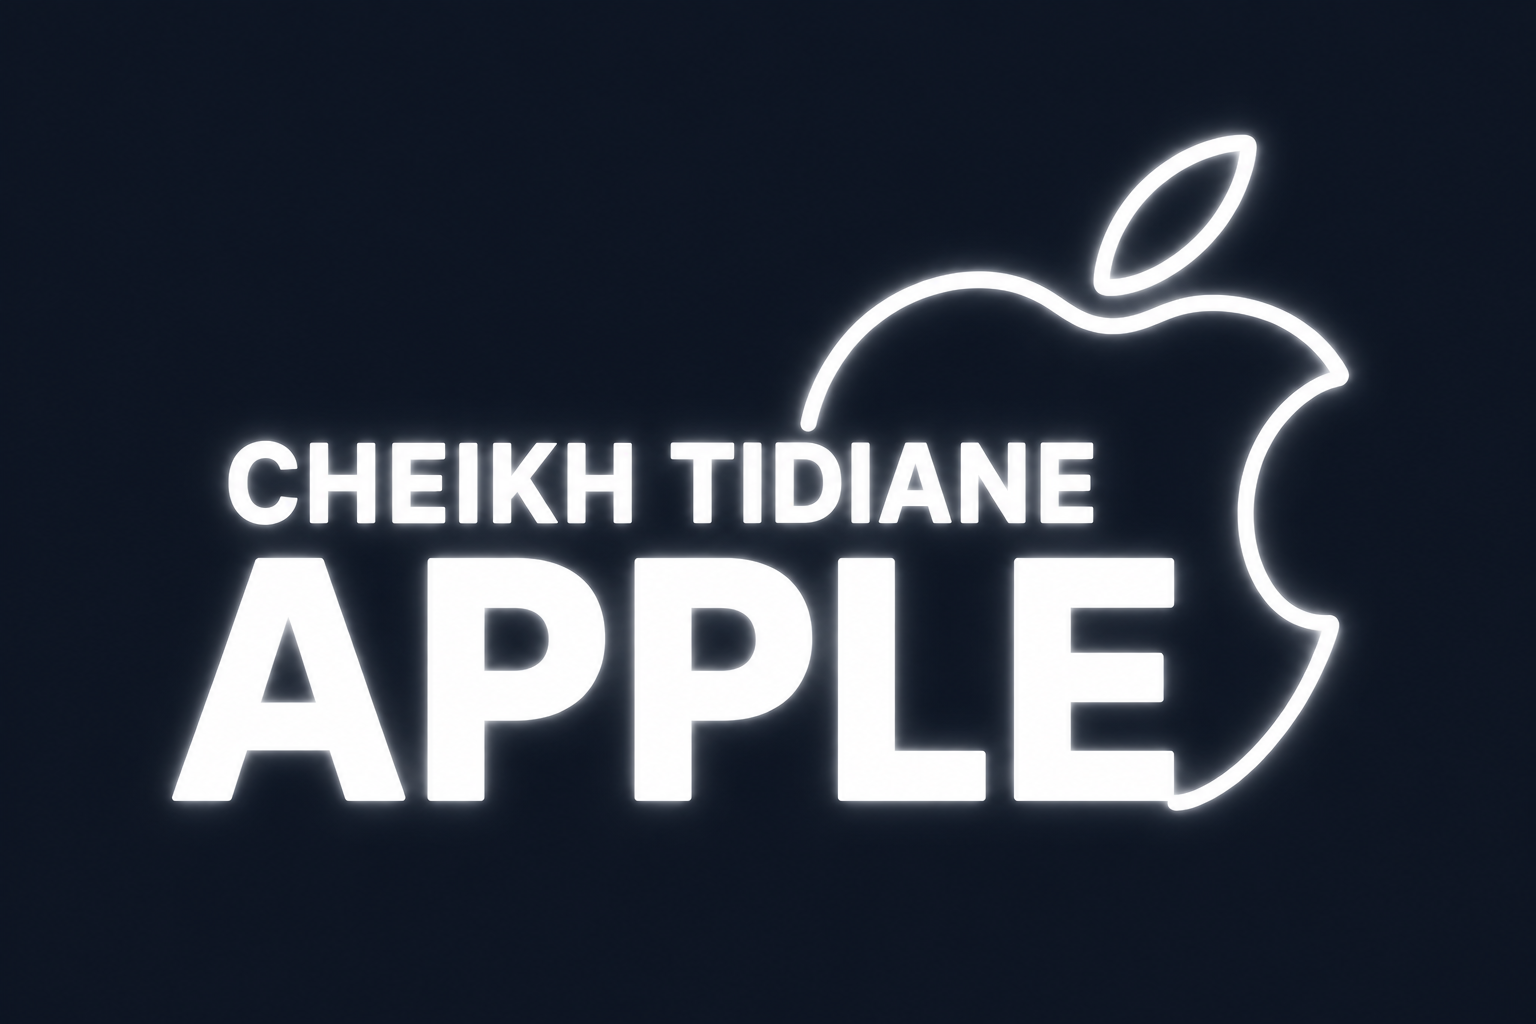
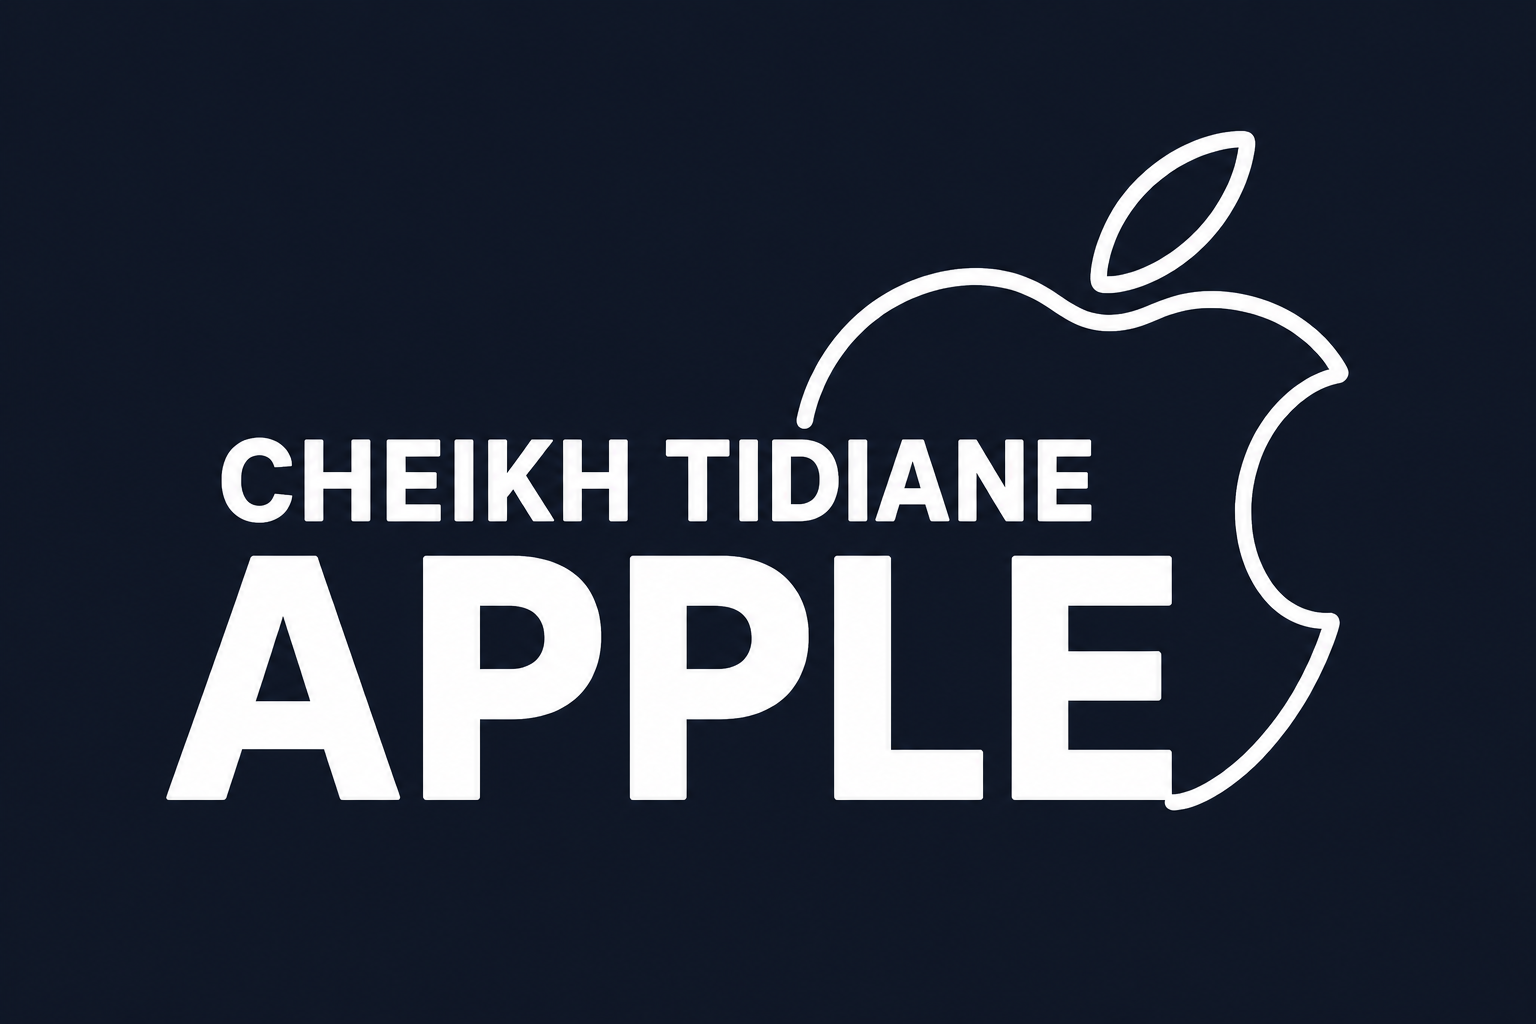
mis a jour

Changed region(s): [[0.125, 0.125, 0.9062, 0.8125], [0.0938, 0.7188, 0.2188, 0.8125], [0.3125, 0.6875, 0.375, 0.7812]]

diff --git a/src/pages/Admin/NewOrderModal.jsx b/src/pages/Admin/NewOrderModal.jsx
@@ -1,19 +1,25 @@
 import { useState, useMemo } from 'react';
 import { useQuery } from '@tanstack/react-query';
-import { FiSearch, FiPlus, FiMinus, FiTrash2, FiShoppingBag } from 'react-icons/fi';
+import { FiSearch, FiPlus, FiMinus, FiTrash2, FiShoppingBag, FiUser, FiCheckCircle, FiX } from 'react-icons/fi';
 import Modal from '@/components/ui/Modal';
 import { productService } from '@/services/product.service';
 import { adminService } from '@/services/admin.service';
 import { formatPrice } from '@/utils/format';
 import { POS_PAYMENT_METHODS } from '@/constants';
 
+const WALKIN_EMAIL = 'comptoir@cheikhtidiane.local';
 const norm = (s) => (s || '').toLowerCase().normalize('NFD').replace(/[̀-ͯ]/g, '');
+
+const EMPTY_CUSTOMER = { name: '', phone: '', address: '', city: '' };
 
 /** Création d'une commande « sur place » (vente au comptoir). */
 export default function NewOrderModal({ open, onClose, onCreated }) {
   const [q, setQ] = useState('');
   const [lines, setLines] = useState({}); // { productId: { product, qty } }
-  const [customer, setCustomer] = useState({ name: '', phone: '' });
+  const [customer, setCustomer] = useState(EMPTY_CUSTOMER);
+  const [clientQ, setClientQ] = useState('');
+  const [selectedClientId, setSelectedClientId] = useState(null);
+  const [showClientList, setShowClientList] = useState(false);
   const [method, setMethod] = useState('cash');
   const [busy, setBusy] = useState(false);
   const [error, setError] = useState('');
@@ -21,10 +27,22 @@ export default function NewOrderModal({ open, onClose, onCreated }) {
   const { data } = useQuery({ queryKey: ['pos-products'], queryFn: () => productService.list({ limit: 100 }), enabled: open });
   const products = data?.data || [];
 
+  // Clients existants (pour rattachement d'une vente au comptoir)
+  const { data: clientsData } = useQuery({ queryKey: ['admin', 'clients'], queryFn: () => adminService.clients(), enabled: open });
+  const clients = clientsData?.data || [];
+
   const results = useMemo(() => {
     const t = norm(q.trim());
     return (t ? products.filter((p) => norm(p.name).includes(t)) : products).slice(0, 8);
   }, [products, q]);
+
+  const clientResults = useMemo(() => {
+    const t = norm(clientQ.trim());
+    return clients
+      .filter((c) => c.email !== WALKIN_EMAIL)
+      .filter((c) => !t || norm(`${c.name} ${c.phone || ''} ${c.email || ''}`).includes(t))
+      .slice(0, 6);
+  }, [clients, clientQ]);
 
   const items = Object.values(lines);
   const total = items.reduce((s, it) => s + it.product.price * it.qty, 0);
@@ -36,18 +54,42 @@ export default function NewOrderModal({ open, onClose, onCreated }) {
       return { ...l, [id]: { ...l[id], qty } };
     });
 
+  function pickClient(c) {
+    setSelectedClientId(c.id);
+    setCustomer({ name: c.name || '', phone: c.phone || '', address: c.address || '', city: c.city || '' });
+    setClientQ('');
+    setShowClientList(false);
+    setError('');
+  }
+  function clearClient() {
+    setSelectedClientId(null);
+    setCustomer(EMPTY_CUSTOMER);
+  }
+
+  function reset() {
+    setLines({}); setCustomer(EMPTY_CUSTOMER); setQ(''); setMethod('cash');
+    setClientQ(''); setSelectedClientId(null); setShowClientList(false);
+  }
+
   async function submit() {
+    if (!customer.name.trim()) return setError('Le nom du client est obligatoire.');
     if (!items.length) return setError('Ajoutez au moins un article.');
     setBusy(true);
     setError('');
     try {
       await adminService.createOrder({
-        customer: { name: customer.name.trim(), phone: customer.phone.trim() },
+        userId: selectedClientId || undefined,
+        customer: {
+          name: customer.name.trim(),
+          phone: customer.phone.trim(),
+          address: customer.address.trim(),
+          city: customer.city.trim(),
+        },
         items: items.map((it) => ({ productId: it.product.id, quantity: it.qty })),
         paymentMethod: method,
         status: 'paid',
       });
-      setLines({}); setCustomer({ name: '', phone: '' }); setQ(''); setMethod('cash');
+      reset();
       onCreated?.();
     } catch (e) {
       setError(e.response?.data?.message || 'Création impossible.');
@@ -91,7 +133,7 @@ export default function NewOrderModal({ open, onClose, onCreated }) {
                       <span className="w-6 text-center dark:text-white">{it.qty}</span>
                       <button type="button" onClick={() => setQty(it.product.id, it.qty + 1)} className="grid h-7 w-7 place-items-center text-muted"><FiPlus size={12} /></button>
                     </div>
-                    <span className="w-20 shrink-0 text-right font-semibold dark:text-white">{formatPrice(it.product.price * it.qty)}</span>
+                    <span className="w-20 shrink-0 whitespace-nowrap text-right font-semibold dark:text-white">{formatPrice(it.product.price * it.qty)}</span>
                     <button type="button" onClick={() => setQty(it.product.id, 0)} className="grid h-7 w-7 shrink-0 place-items-center rounded text-muted hover:text-danger"><FiTrash2 size={13} /></button>
                   </div>
                 ))}
@@ -101,9 +143,55 @@ export default function NewOrderModal({ open, onClose, onCreated }) {
             )}
           </div>
 
-          <div className="grid grid-cols-2 gap-3">
-            <input className="input" placeholder="Nom du client (optionnel)" value={customer.name} onChange={(e) => setCustomer((c) => ({ ...c, name: e.target.value }))} />
-            <input className="input" placeholder="Téléphone (optionnel)" value={customer.phone} onChange={(e) => setCustomer((c) => ({ ...c, phone: e.target.value }))} />
+          {/* Client */}
+          <div>
+            <label className="label dark:text-white/80">Client</label>
+
+            {/* Recherche d'un client existant */}
+            <div className="relative">
+              <FiUser className="pointer-events-none absolute left-3 top-1/2 -translate-y-1/2 text-muted" size={16} />
+              <input
+                className="input pl-9"
+                placeholder="Rechercher un client existant…"
+                value={clientQ}
+                onChange={(e) => { setClientQ(e.target.value); setShowClientList(true); }}
+                onFocus={() => setShowClientList(true)}
+                onBlur={() => setTimeout(() => setShowClientList(false), 150)}
+              />
+              {showClientList && clientResults.length > 0 && (
+                <div className="absolute z-20 mt-1 max-h-52 w-full overflow-y-auto rounded-xl border border-line bg-white py-1 shadow-card dark:border-white/10 dark:bg-primary-800">
+                  {clientResults.map((c) => (
+                    <button
+                      key={c.id}
+                      type="button"
+                      onMouseDown={(e) => e.preventDefault()}
+                      onClick={() => pickClient(c)}
+                      className="flex w-full items-center justify-between gap-2 px-3 py-2 text-left text-sm transition hover:bg-surface dark:hover:bg-white/5"
+                    >
+                      <span className="min-w-0 truncate font-medium dark:text-white">{c.name}</span>
+                      <span className="shrink-0 whitespace-nowrap text-xs text-muted">{c.phone || c.email}</span>
+                    </button>
+                  ))}
+                </div>
+              )}
+            </div>
+
+            {selectedClientId && (
+              <span className="mt-2 inline-flex items-center gap-1.5 rounded-full bg-success/10 px-3 py-1 text-xs font-semibold text-success">
+                <FiCheckCircle size={13} /> Client existant lié
+                <button type="button" onClick={clearClient} className="ml-0.5 text-success/80 hover:text-success" aria-label="Détacher le client"><FiX size={13} /></button>
+              </span>
+            )}
+
+            {/* Coordonnées (le nom est obligatoire) */}
+            <div className="mt-2 grid grid-cols-2 gap-3">
+              <input className="input" placeholder="Nom du client *" value={customer.name} onChange={(e) => setCustomer((c) => ({ ...c, name: e.target.value }))} />
+              <input className="input" placeholder="Téléphone" value={customer.phone} onChange={(e) => setCustomer((c) => ({ ...c, phone: e.target.value }))} />
+            </div>
+            <input className="input mt-3" placeholder="Adresse (optionnel)" value={customer.address} onChange={(e) => setCustomer((c) => ({ ...c, address: e.target.value }))} />
+            <p className="mt-1.5 text-xs text-muted">
+              Si le téléphone ou l'adresse correspond à un client du site, la commande lui sera automatiquement rattachée.
+            </p>
           </div>
 
           <div>
@@ -115,7 +203,7 @@ export default function NewOrderModal({ open, onClose, onCreated }) {
 
           <div className="flex items-center justify-between border-t border-line pt-3 dark:border-white/10">
             <span className="text-sm text-muted">Total</span>
-            <span className="text-xl font-extrabold dark:text-white">{formatPrice(total)}</span>
+            <span className="whitespace-nowrap text-xl font-extrabold dark:text-white">{formatPrice(total)}</span>
           </div>
 
           {error && <p className="rounded-lg bg-danger/10 px-3 py-2 text-sm text-danger">{error}</p>}

diff --git a/src/utils/media.js b/src/utils/media.js
@@ -1,5 +1,34 @@
 import { IPHONE_IMAGES } from '@/constants';
 
+/**
+ * Optimise une URL Cloudinary À LA VOLÉE (sans re-téléverser l'image) :
+ * insère format & qualité automatiques (WebP/AVIF, compression), densité
+ * d'écran (Retina) et une largeur cible. Cloudinary génère la dérivée à la
+ * 1re requête puis la sert depuis son CDN (mise en cache).
+ * Les URL non-Cloudinary (placeholders locaux `/images/…`) sont renvoyées telles quelles.
+ * @param {string} url
+ * @param {{width?:number, height?:number, crop?:string}} opts
+ */
+export function optimizeImage(url, { width, height, crop = 'limit' } = {}) {
+  if (!url || typeof url !== 'string') return url;
+  if (!url.includes('res.cloudinary.com') || !url.includes('/upload/')) return url;
+  // Évite d'empiler nos transformations si l'URL en contient déjà une des nôtres.
+  if (/\/upload\/[^/]*f_auto/.test(url)) return url;
+  const t = ['f_auto', 'q_auto', 'dpr_auto', `c_${crop}`];
+  if (width) t.push(`w_${width}`);
+  if (height) t.push(`h_${height}`);
+  return url.replace('/upload/', `/upload/${t.join(',')}/`);
+}
+
+/**
+ * Construit un `srcSet` responsive pour une image Cloudinary (plusieurs largeurs).
+ * Renvoie `undefined` pour les URL non-Cloudinary (le navigateur utilise alors `src`).
+ */
+export function optimizedSrcSet(url, widths = [300, 400, 600, 800]) {
+  if (!url || typeof url !== 'string' || !url.includes('res.cloudinary.com')) return undefined;
+  return widths.map((w) => `${optimizeImage(url, { width: w })} ${w}w`).join(', ');
+}
+
 /** Vrai si le produit est un iPhone (par catégorie ou par nom/modèle). */
 function isIphone(product) {
   const slug = product?.category?.slug;

diff --git a/src/pages/ProductDetails/index.jsx b/src/pages/ProductDetails/index.jsx
@@ -15,7 +15,7 @@ import { productService } from '@/services/product.service';
 import { addItem } from '@/store/cartSlice';
 import { toggleFavorite } from '@/store/favoriteSlice';
 import { formatPrice, computeLebalma, cn } from '@/utils/format';
-import { productGallery } from '@/utils/media';
+import { productGallery, optimizeImage } from '@/utils/media';
 import { WHATSAPP_NUMBER } from '@/constants';
 
 const TRUST = [
@@ -119,8 +119,9 @@ export default function ProductDetails() {
             {images.length > 0 ? (
               <div className="aspect-square overflow-hidden rounded-3xl bg-surface shadow-card ring-1 ring-line/60 dark:bg-primary-800 dark:ring-white/10">
                 <img
-                  src={images[activeImg] || images[0]}
+                  src={optimizeImage(images[activeImg] || images[0], { width: 900 })}
                   alt={product.name}
+                  decoding="async"
                   className="h-full w-full object-cover transition-transform duration-700 ease-smooth group-hover:scale-105"
                 />
               </div>
@@ -179,7 +180,7 @@ export default function ProductDetails() {
                   )}
                   aria-label={`Photo ${i + 1}`}
                 >
-                  <img src={img} alt={`${product.name} ${i + 1}`} className="h-full w-full object-cover" />
+                  <img src={optimizeImage(img, { width: 160 })} alt={`${product.name} ${i + 1}`} loading="lazy" className="h-full w-full object-cover" />
                 </button>
               ))}
             </div>

diff --git a/src/pages/Cart/index.jsx b/src/pages/Cart/index.jsx
@@ -3,6 +3,7 @@ import { useSelector, useDispatch } from 'react-redux';
 import { FiTrash2 } from 'react-icons/fi';
 import { updateQuantity, removeItem, selectCartTotal } from '@/store/cartSlice';
 import { formatPrice } from '@/utils/format';
+import { optimizeImage } from '@/utils/media';
 
 export default function Cart() {
   const dispatch = useDispatch();
@@ -28,7 +29,7 @@ export default function Cart() {
             <div key={`${it.product.id}-${it.color}-${it.storage}`} className="card flex items-center gap-4 p-4">
               <div className="h-20 w-20 overflow-hidden rounded-lg bg-surface">
                 {it.product.images?.[0] && (
-                  <img src={it.product.images[0]} alt={it.product.name} className="h-full w-full object-cover" />
+                  <img src={optimizeImage(it.product.images[0], { width: 160 })} alt={it.product.name} loading="lazy" className="h-full w-full object-cover" />
                 )}
               </div>
               <div className="flex-1">

diff --git a/src/services/api.js b/src/services/api.js
@@ -18,15 +18,17 @@ api.interceptors.request.use((config) => {
   return config;
 });
 
-// Déconnecte automatiquement sur 401
+// Session invalide/expirée (401) : on nettoie le token et on retourne à l'ACCUEIL,
+// jamais vers /login (règle métier : une déconnexion mène toujours au site).
 api.interceptors.response.use(
   (response) => response,
   (error) => {
     if (error.response?.status === 401) {
       localStorage.removeItem('token');
-      // Redirection douce (évite la boucle si déjà sur /login)
-      if (!window.location.pathname.startsWith('/login')) {
-        window.location.href = '/login';
+      // Le garde évite un rechargement inutile quand la déconnexion volontaire a
+      // déjà ramené l'utilisateur sur l'accueil (les 401 tardifs sont alors ignorés).
+      if (window.location.pathname !== '/') {
+        window.location.href = '/';
       }
     }
     return Promise.reject(error);

diff --git a/src/components/product/ProductMedia.jsx b/src/components/product/ProductMedia.jsx
@@ -1,5 +1,5 @@
 import DeviceIllustration from './DeviceIllustration';
-import { productPlaceholder } from '@/utils/media';
+import { productPlaceholder, optimizeImage, optimizedSrcSet } from '@/utils/media';
 import { cn } from '@/utils/format';
 
 /**
@@ -22,9 +22,12 @@ export default function ProductMedia({ product, className, imgClassName }) {
     <div className={cn('relative overflow-hidden', className)}>
       {image ? (
         <img
-          src={image}
+          src={optimizeImage(image, { width: 600 })}
+          srcSet={optimizedSrcSet(image)}
+          sizes="(max-width: 640px) 50vw, (max-width: 1024px) 33vw, 25vw"
           alt={product.name}
           loading="lazy"
+          decoding="async"
           className={cn('h-full w-full object-cover', imgClassName)}
         />
       ) : (

diff --git a/src/constants/index.js b/src/constants/index.js
@@ -109,8 +109,11 @@ export const LEBALMA_PAY_METHODS = [
   { value: 'cash', label: 'Espèces (en boutique)' },
 ];
 
-// Logo de la boutique (PNG) — navbar, en-tête des factures, back-office
-export const SHOP_LOGO = '/images/cheikh-tidiane-apple.svg';
+// Logo officiel de la boutique — navbar, footer, back-office, factures.
+// Image « pleine » : logo blanc lumineux sur fond sombre (non transparent).
+//  • fonds sombres  → classe `mix-blend-screen` (le fond sombre disparaît, seul le logo ressort) ;
+//  • fonds clairs   → affiché tel quel (badge sombre + logo blanc, lisible).
+export const SHOP_LOGO = '/images/cheikh-tidiane-apple.png';
 
 // Coordonnées par défaut de la boutique (surchargées par les réglages admin)
 export const SHOP_DEFAULTS = {

diff --git a/src/components/layout/AdminLayout.jsx b/src/components/layout/AdminLayout.jsx
@@ -77,8 +77,8 @@ export default function AdminLayout() {
 
       {/* Marque */}
       <Link to="/admin" className="relative flex items-center gap-3 px-5 py-5" onClick={() => setOpen(false)}>
-        <span className="grid h-11 w-11 place-items-center rounded-2xl bg-white/10 p-1.5 ring-1 ring-white/10 backdrop-blur">
-          <img src={SHOP_LOGO} alt="Cheikh Tidiane Apple" className="h-full w-auto" />
+        <span className="grid h-11 place-items-center">
+          <img src={SHOP_LOGO} alt="Cheikh Tidiane Apple" className="h-11 w-auto rounded-lg" />
         </span>
         <span className="leading-tight">
           <span className="block text-sm font-bold tracking-tight text-white">Cheikh Tidiane</span>

diff --git a/src/components/layout/Footer.jsx b/src/components/layout/Footer.jsx
@@ -37,7 +37,7 @@ export default function Footer() {
     <footer className="mt-20 border-t border-line bg-primary text-white">
       <div className="container-page grid grid-cols-2 gap-8 py-14 md:grid-cols-5">
         <div className="col-span-2">
-          <img src={SHOP_LOGO} alt="Cheikh Tidiane Apple" className="h-14 w-auto rounded-lg bg-white" />
+          <img src={SHOP_LOGO} alt="Cheikh Tidiane Apple" className="h-14 w-auto" />
           <p className="mt-3 max-w-xs text-sm text-white/60">
             iPhone, iPad et MacBook au meilleur prix. Payez comptant ou en plusieurs fois avec
             Lebalma — Wave, Orange Money, carte bancaire.

diff --git a/src/components/layout/Navbar.jsx b/src/components/layout/Navbar.jsx
@@ -260,8 +260,8 @@ export default function Navbar() {
 function BrandLogo() {
   return (
     <Link to="/" className="flex shrink-0 items-center" aria-label="Cheikh Tidiane — Accueil">
-      {/* bg-white : le logo étant un « découpage » sur fond noir, on éclaire les trous pour qu'il soit net */}
-      <img src={SHOP_LOGO} alt="Cheikh Tidiane Apple" className="h-10 w-auto rounded-lg bg-white sm:h-14" />
+      {/* Le fond du logo est déjà #111827 (identique à la navbar) → affiché tel quel, fondu parfait */}
+      <img src={SHOP_LOGO} alt="Cheikh Tidiane Apple" className="h-10 w-auto sm:h-14" />
     </Link>
   );
 }

diff --git a/src/pages/Admin/Settings.jsx b/src/pages/Admin/Settings.jsx
@@ -114,8 +114,8 @@ export default function Settings() {
 
       {/* Aperçu logo */}
       <div className="card mt-6 flex items-center gap-4 p-6">
-        <img src={SHOP_LOGO} alt="Logo" className="h-12 w-auto" />
-        <p className="text-sm text-muted">Logo de la boutique (<code>public/images/cheikh-tidiane-apple.svg</code>).</p>
+        <img src={SHOP_LOGO} alt="Logo" className="h-12 w-auto rounded-lg" />
+        <p className="text-sm text-muted">Logo de la boutique (<code>public/images/cheikh-tidiane-apple.png</code>).</p>
       </div>
 
       <div className="mt-6 flex items-center gap-3">

diff --git a/src/routes/ProtectedRoute.jsx b/src/routes/ProtectedRoute.jsx
@@ -8,7 +8,9 @@ export default function ProtectedRoute({ adminOnly = false }) {
   const { isAuthenticated, user } = useSelector((s) => s.auth);
   const token = localStorage.getItem('token');
 
-  if (!token && !isAuthenticated) return <Navigate to="/login" replace />;
+  // Accès non authentifié : retour à l'accueil (jamais /login, qui reste
+  // accessible via le bouton « Se connecter »).
+  if (!token && !isAuthenticated) return <Navigate to="/" replace />;
 
   // Session en cours de restauration (token présent mais profil pas encore chargé)
   if (token && !user) return <Loader />;
